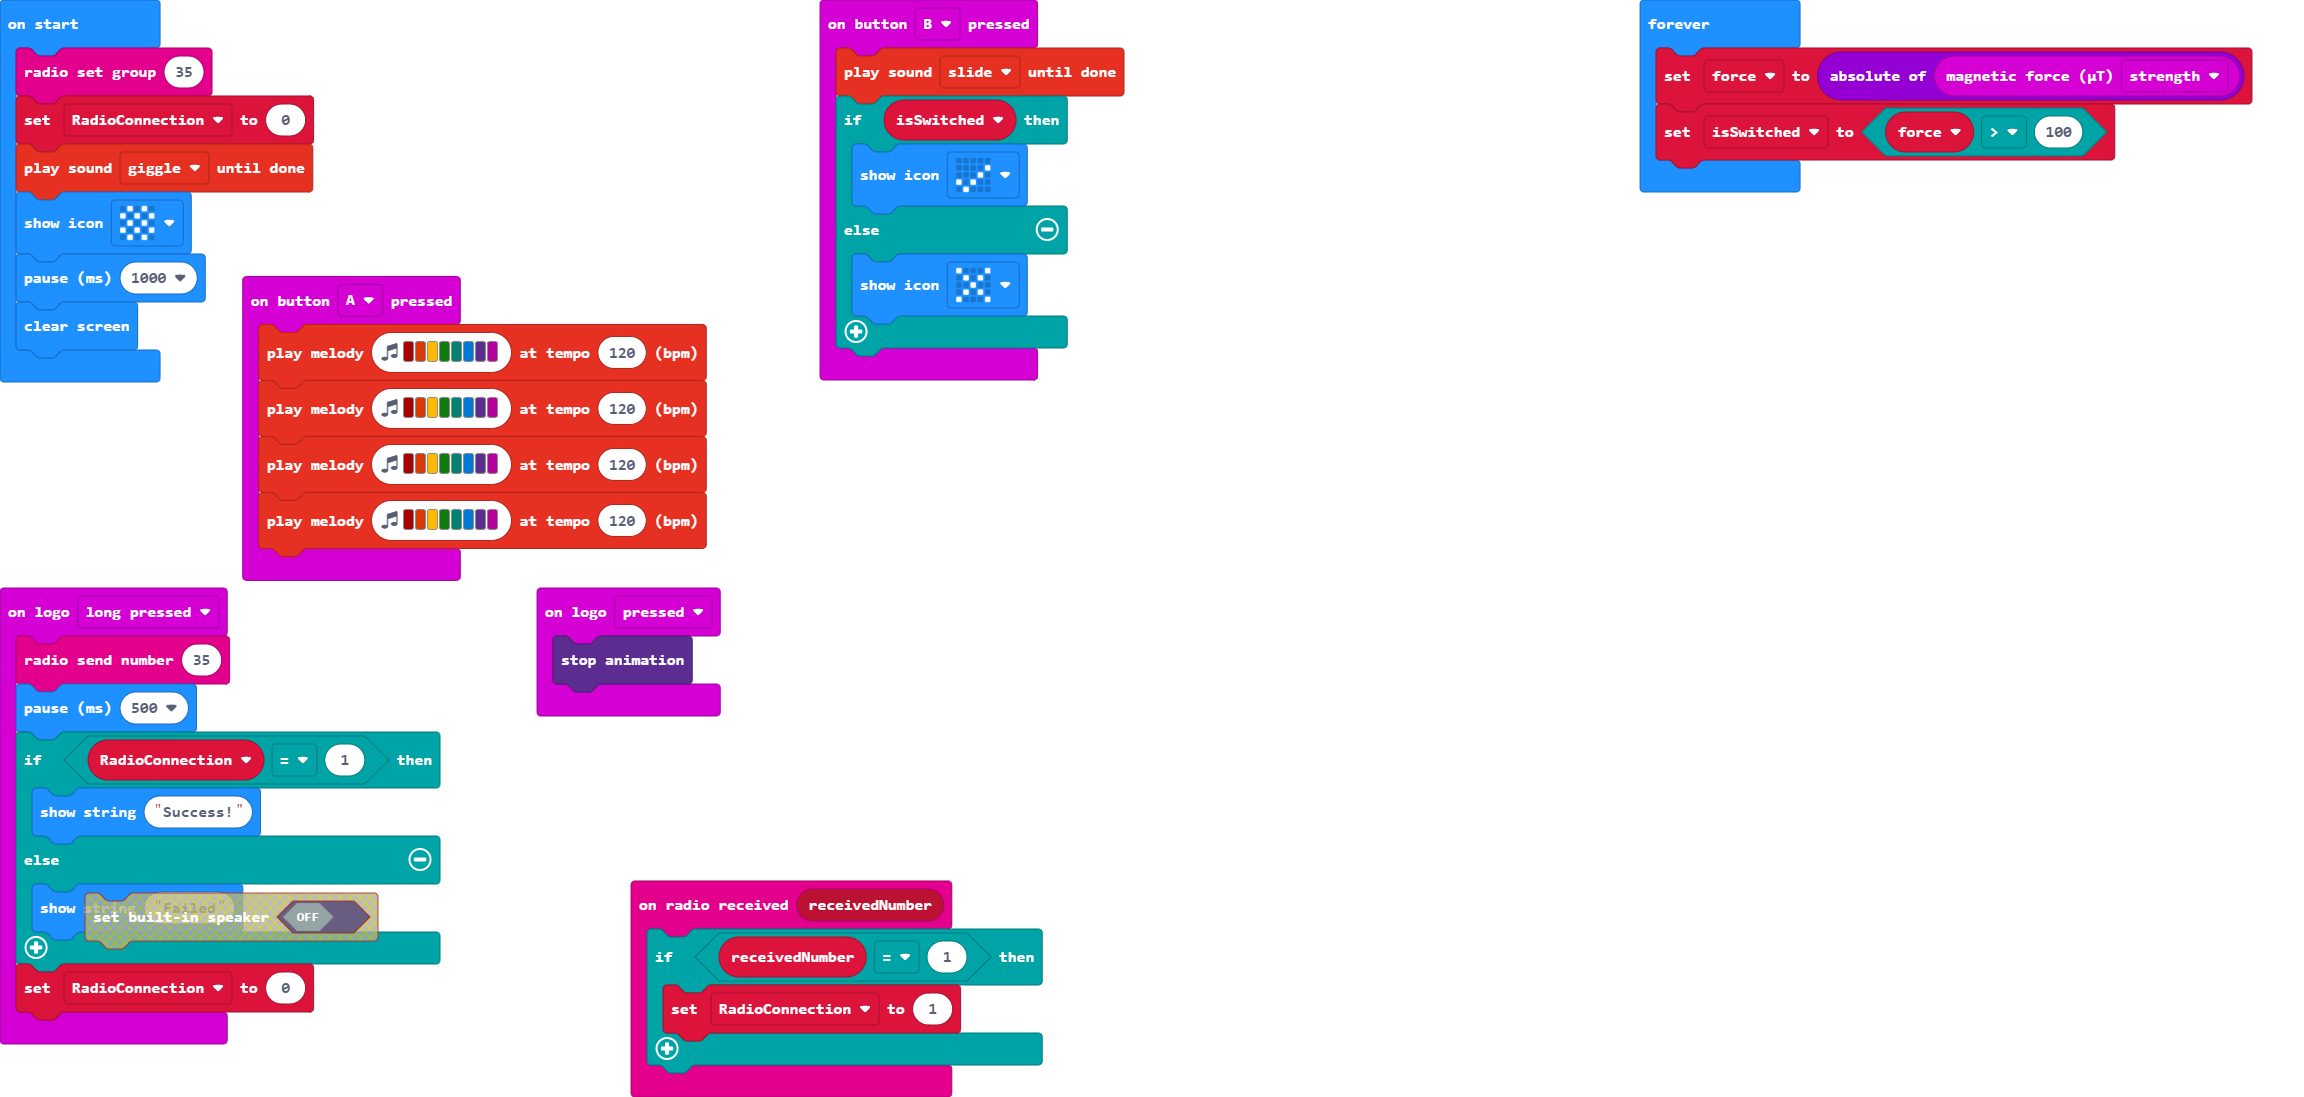
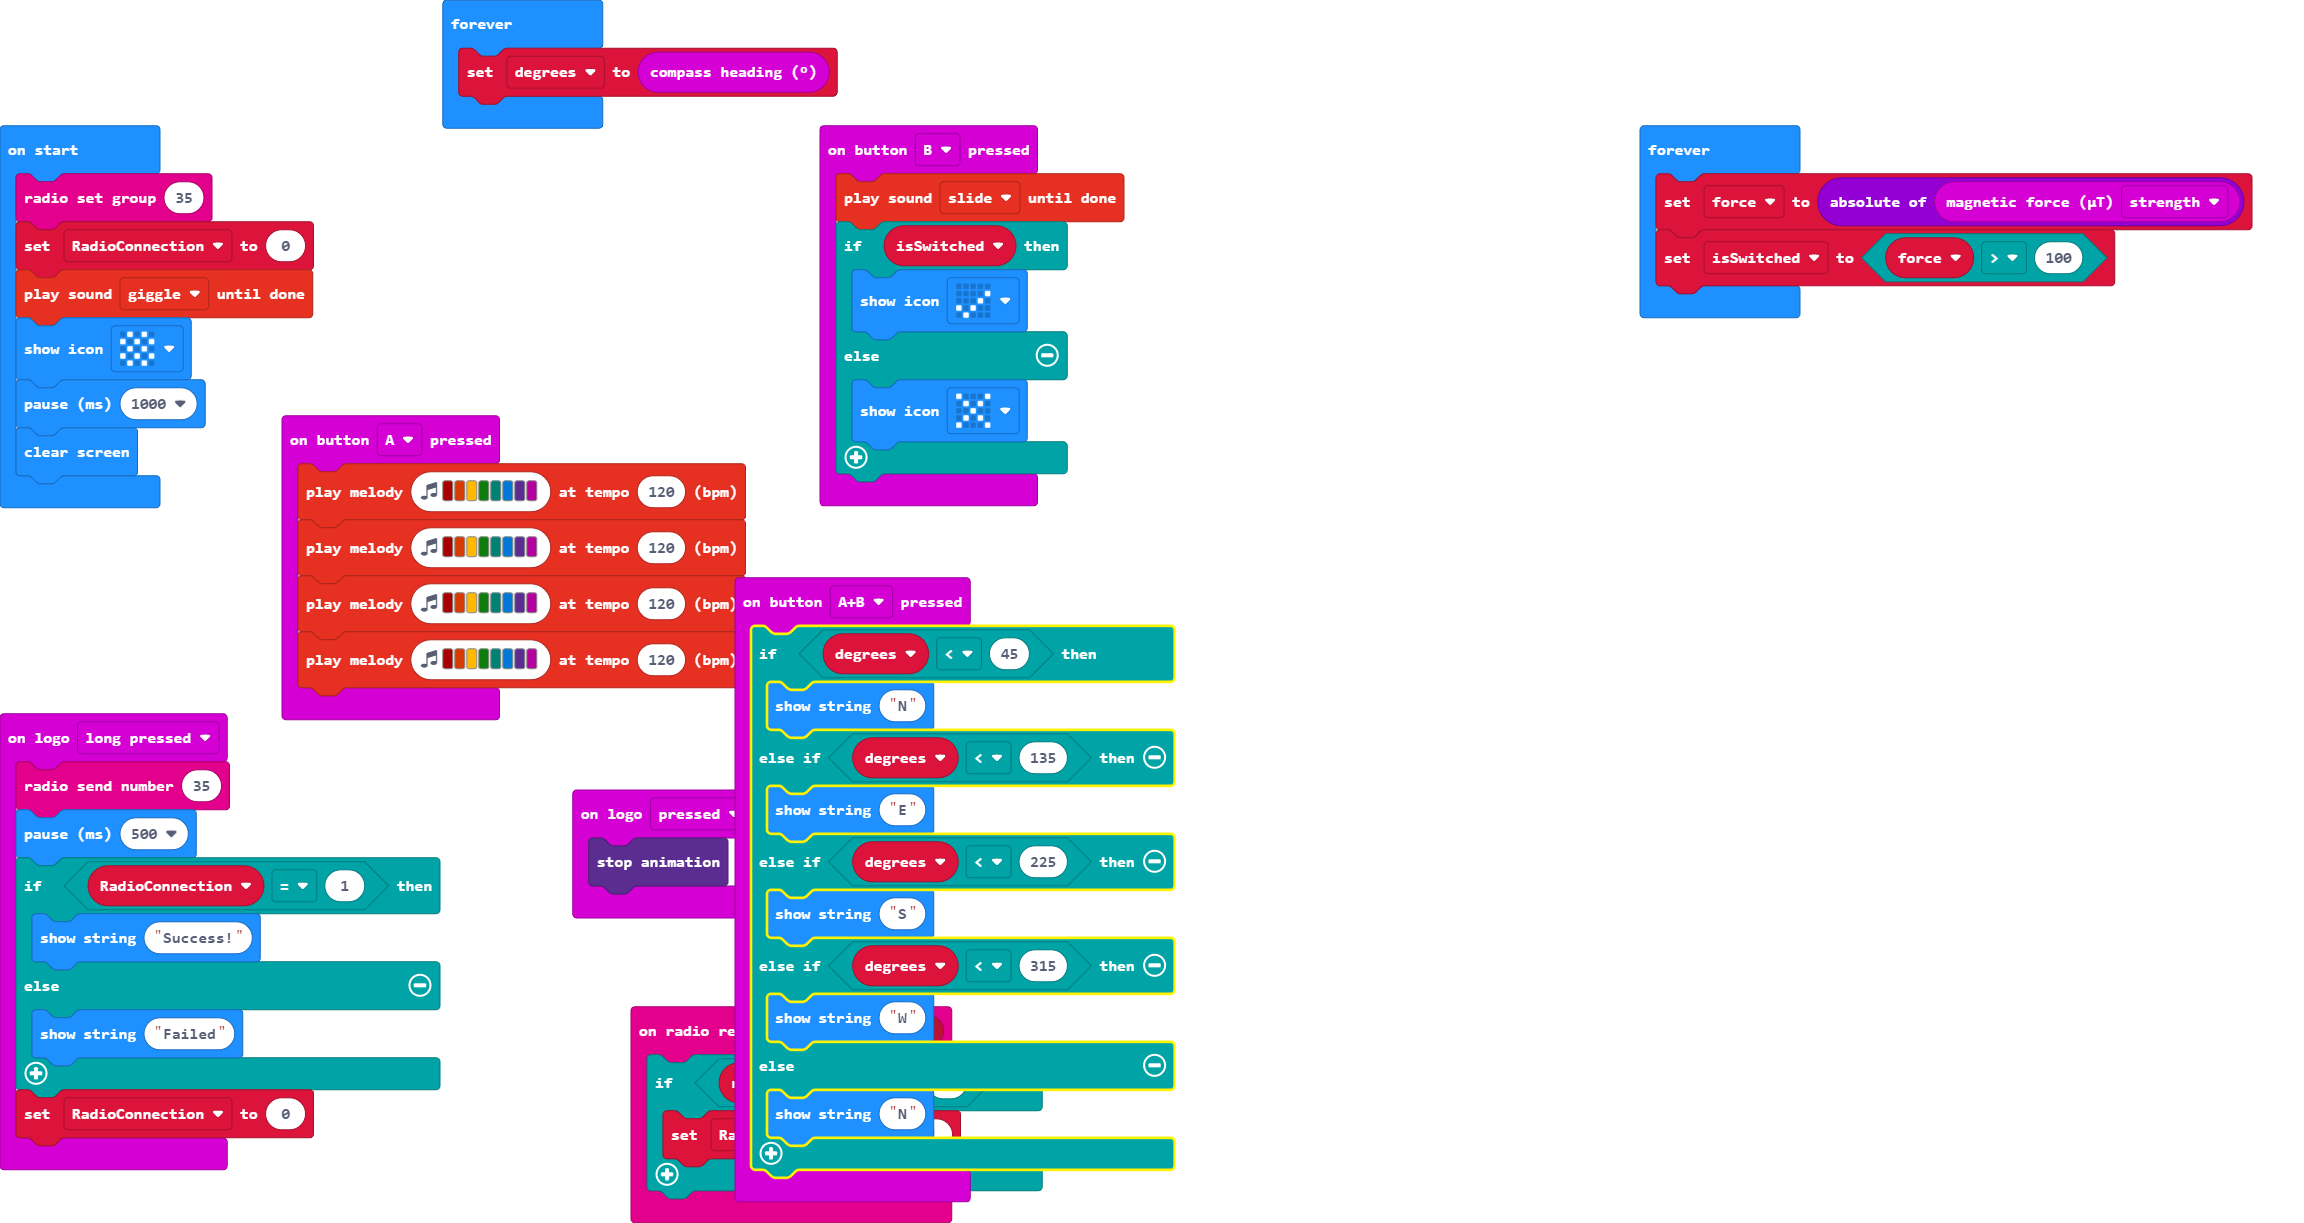
Added Compass and added some fun sound to button A

diff --git a/main.ts b/main.ts
@@ -22,6 +22,19 @@ input.onButtonPressed(Button.A, function () {
     music.playMelody("C5 B A G F E D C ", 120)
     music.playMelody("C5 B A G F E D C ", 120)
 })
+input.onButtonPressed(Button.AB, function () {
+    if (degrees < 45) {
+        basic.showString("N")
+    } else if (degrees < 135) {
+        basic.showString("E")
+    } else if (degrees < 225) {
+        basic.showString("S")
+    } else if (degrees < 315) {
+        basic.showString("W")
+    } else {
+        basic.showString("N")
+    }
+})
 input.onButtonPressed(Button.B, function () {
     soundExpression.slide.playUntilDone()
     if (isSwitched) {
@@ -35,6 +48,7 @@ input.onLogoEvent(TouchButtonEvent.Pressed, function () {
 })
 let force = 0
 let isSwitched = false
+let degrees = 0
 let RadioConnection = 0
 radio.setGroup(35)
 RadioConnection = 0
@@ -42,6 +56,9 @@ soundExpression.giggle.playUntilDone()
 basic.showIcon(IconNames.Chessboard)
 basic.pause(1000)
 basic.clearScreen()
+basic.forever(function () {
+    degrees = input.compassHeading()
+})
 basic.forever(function () {
     force = Math.abs(input.magneticForce(Dimension.Strength))
     isSwitched = force > 100
